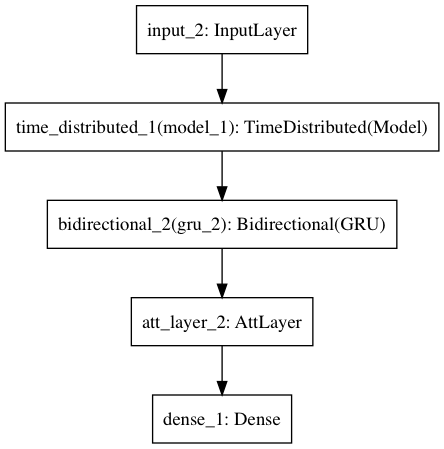
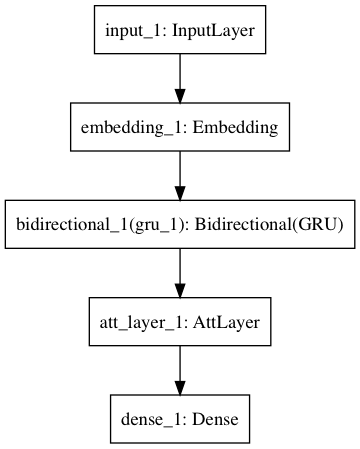
Correct attention and delete hierechialy!

diff --git a/chemception/network/HATT.py b/chemception/network/HATT.py
@@ -22,7 +22,7 @@ from keras.utils.np_utils import to_categorical
 
 from keras.layers import Embedding
 from keras.layers import Dense, Input, Flatten
-from keras.layers import Conv1D, MaxPooling1D, Embedding, Merge, Dropout, LSTM, GRU, Bidirectional, TimeDistributed
+from keras.layers import Conv1D, MaxPooling1D, Embedding, merge, Dropout, LSTM, GRU, Bidirectional, TimeDistributed
 from keras.models import Model
 
 from keras import backend as K
@@ -48,9 +48,9 @@ class HATT:
 		MAX_WORD_LENGTH = 180
 		MAX_NB_CHARS = 180
 		EMBEDDING_DIM = 180
+		print(len(char_index))
 		embedding_layer = Embedding(len(char_index) + 1,
                             EMBEDDING_DIM,
-                            input_length=MAX_WORD_LENGTH,
                             trainable=True,
                             mask_zero=True)
 
@@ -58,14 +58,8 @@ class HATT:
 		embedded_sequences = embedding_layer(sentence_input)
 		l_lstm = Bidirectional(GRU(100, return_sequences=True))(embedded_sequences)
 		l_att = AttLayer(100)(l_lstm)
-		sentEncoder = Model(sentence_input, l_att)
-
-		review_input = Input(shape=(MAX_NB_CHARS, MAX_WORD_LENGTH), dtype='int32')
-		review_encoder = TimeDistributed(sentEncoder)(review_input)
-		l_lstm_sent = Bidirectional(GRU(100, return_sequences=True))(review_encoder)
-		l_att_sent = AttLayer(100)(l_lstm_sent)
-		preds = Dense(2, activation='softmax')(l_att_sent)
-		self.model = Model(review_input, preds)
+		preds = Dense(2, activation='softmax')(l_att)
+		self.model = Model(sentence_input, preds)
 
 		plot_model(self.model, to_file='modelHATT.png')
 		

diff --git a/chemception/main.py b/chemception/main.py
@@ -76,7 +76,7 @@ if len(sys.argv)>4 and sys.argv[4]!=None:
 		inputSize=sys.argv[5]
 
 #Setting of the network
-batch_size 			= 50
+batch_size 			= 180
 num_classes 		= 2
 epochs 				= 10
 data_augmentation 	= False
@@ -90,9 +90,9 @@ final_resume 		= main_execution_path + '_resume.txt'
 if type =='C':
 	(X, Y) 	= data.LoadImageData(extensionImg='png',size=inputSize,duplicateProb=0,seed=seed)
 elif type == 'S':
-	(X, Y) 	= data.LoadSMILESData(duplicateProb=0,seed=seed)
+	(X, Y,char_index) 	= data.LoadSMILESData(duplicateProb=0,seed=seed)
 elif type == 'H':
-	(X, Y) 	= data.LoadSMILESData(duplicateProb=0,seed=seed)
+	(X, Y,char_index) 	= data.LoadSMILESData(duplicateProb=0,seed=seed)
 cvscores = []
 for i in range(2,cross_val+1):
 
@@ -164,7 +164,7 @@ for i in range(2,cross_val+1):
 									metrics,
 									tensorBoard)
 	elif type == 'H':
-		model 				= HATT( data.char_index,
+		model 				= HATT( char_index,
 									x_train,
 									y_train,
 									X_test,

diff --git a/chemception/input.py b/chemception/input.py
@@ -109,19 +109,19 @@ def LoadSMILESData(duplicateProb = 0,seed=7):
 	tokenizer = Tokenizer(num_words=None, char_level=True)
 	tokenizer.fit_on_texts(smiles)
 	print(smiles[0])
-	data = np.zeros((len(smiles), MAX_WORD_LENGTH, MAX_WORD_LENGTH), dtype='int32')
+	data = np.zeros((len(smiles), MAX_WORD_LENGTH), dtype='int32')
 	for i, comp in enumerate(smiles):
 		for j, char in enumerate(comp):
 			try:
 				if tokenizer.word_index[char] < MAX_NB_CHARS:
-					data[i, j, k] = tokenizer.word_index[char]
+					data[i, j] = tokenizer.word_index[char]
 			except:
 				None
 						#print (char)
 	char_index = tokenizer.word_index
 	indices = np.arange(data.shape[0])
 	
-	return data[indices], labels[indices]
+	return data[indices], labels[indices],char_index
 
 
 
